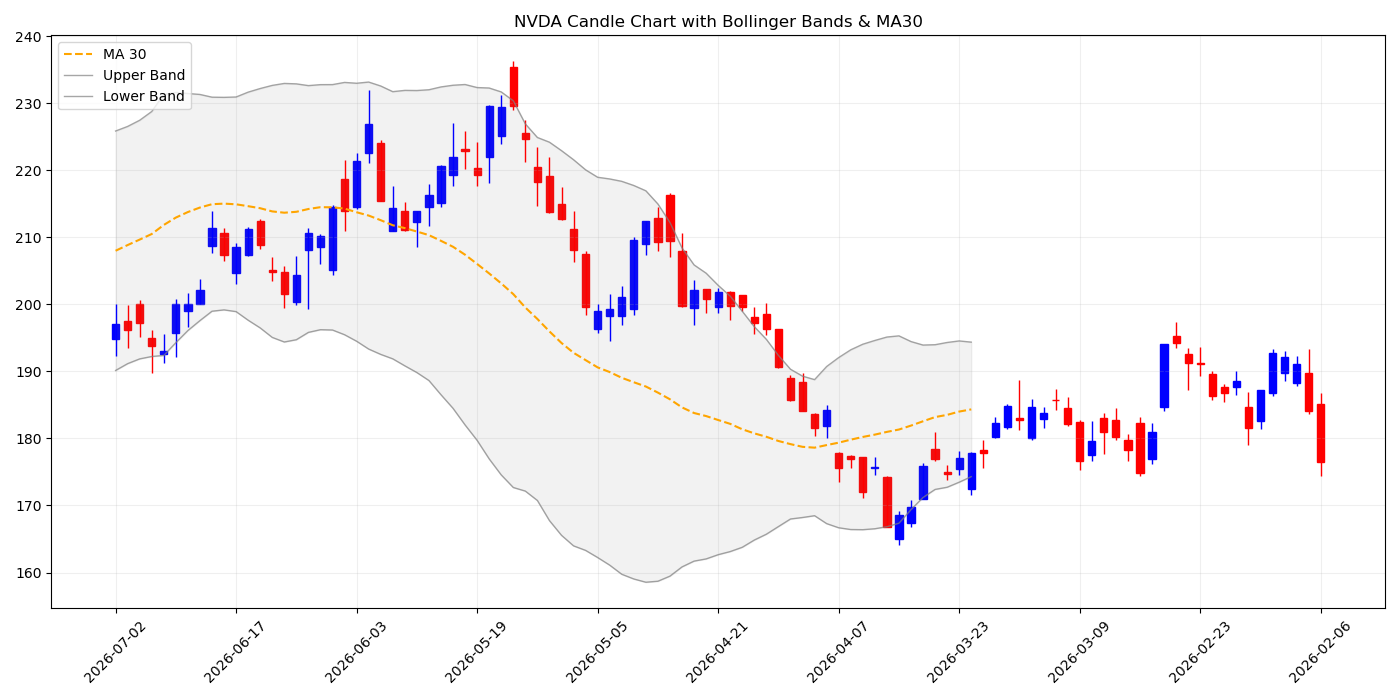
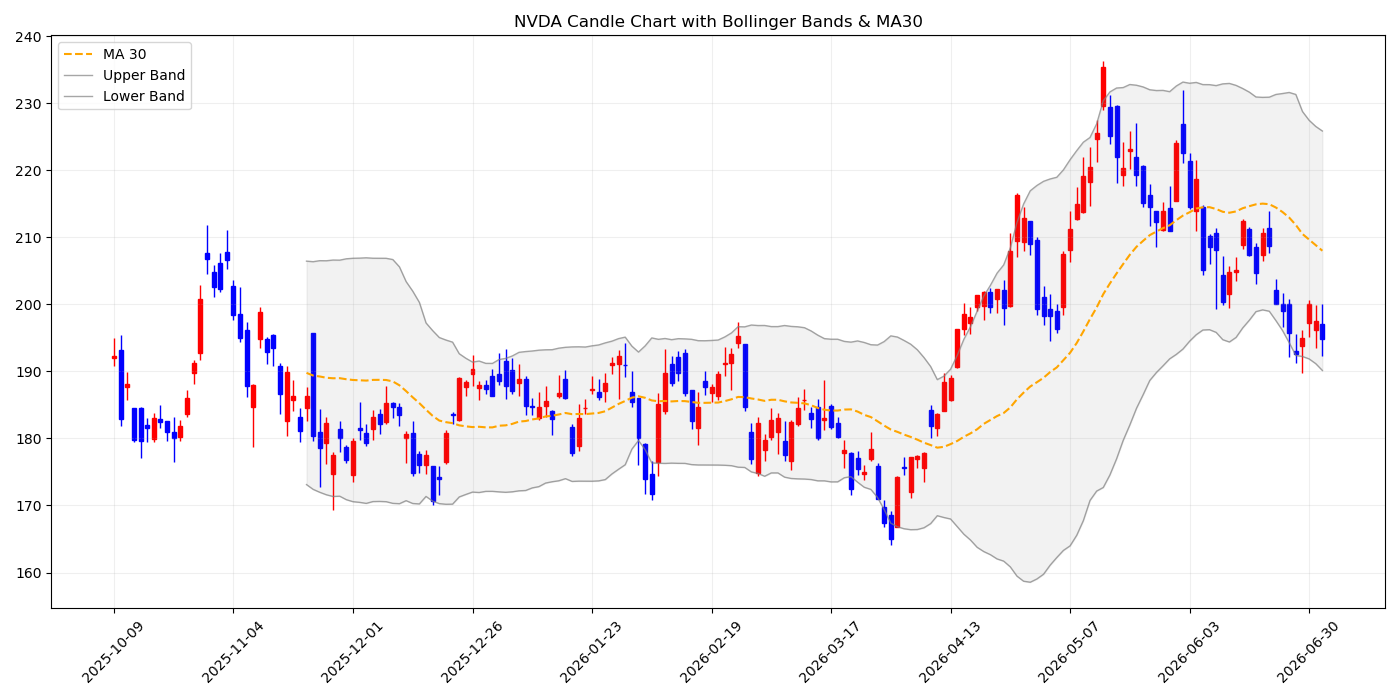
주가 분석용 python 완료됨(30일치 기준)

diff --git a/get_nvidia_price.py b/get_nvidia_price.py
@@ -37,7 +37,7 @@ def get_nvidia_data(month, Ticker) -> pd.DataFrame:
     # month = float(input('Enter the month what you want to get the Ticker data (ex: 5): '))
     end_date = datetime.now()
 
-    start_date = end_date - timedelta(days = 30*month)
+    start_date = end_date - timedelta(days = 30*(month+4))
     end_date = end_date.strftime("%Y-%m-%d")
     start_data = start_date.strftime("%Y-%m-%d")
     df = yf.download(yf.Ticker(Ticker).info['symbol'], start=start_date, end=end_date, interval='1d').sort_index(ascending=True)
@@ -56,13 +56,13 @@ def get_nvidia_data(month, Ticker) -> pd.DataFrame:
     # 하단 밴드 = 중심선 - (표준편차 * 2)
     df['Lower_Band'] = df['MA30'] - (df['STD30'] * 2)
     df = df.reset_index()
-    df = df.sort_values(by='Date', ascending=False)
+    # df = df.sort_values(by='Date', ascending=False)
     # MultiIndex 컬럼이 있다면 평탄화
     df.columns = [
         "_".join(col).strip() if isinstance(col, tuple) else col
         for col in df.columns
     ]
-    df.to_csv('nvidia_price.csv', index=False)  # Save to CSV
+    df.to_csv(f'{Ticker}_price.csv', index=False)  # Save to CSV
 
     return df
 
@@ -128,7 +128,7 @@ if __name__ == "__main__":
 
     # 4. 꺾은선 그래프(Line Plot) 그리기
     plt.figure(figsize=(10, 5))
-    plt.plot(df_center['time'], df_center['cell_value'], marker='o', color='b', linestyle='-', linewidth=2)
+    plt.plot(df_center['time'], df_center['cell_value'].astype(float), marker='o', color='b', linestyle='-', linewidth=2)
 
     # 그래프 스타일 설정
     # plt.title("A14XX (Office) MoM Percent Change (P)", fontsize=14, pad=15)

diff --git a/SKILL.md b/SKILL.md
@@ -1,0 +1,94 @@
+---
+name: analyze-nvda-stock
+description: Run the local NMPL stock analysis workflow for a requested ticker. Use when the user asks in Korean or English to analyze a stock ticker, especially phrases like "NVDA 주가 분석해줘", "AAPL 주가 분석해줘", "엔비디아 주가 분석", or "analyze AAPL stock"; extract the ticker, execute the NMPL folder's get_nvidia_price.py script, report generated outputs, summarize datacenter cell_value trends, and compare the latest close against 30-day Bollinger bands.
+---
+
+# Analyze Stock Ticker
+
+Run the existing local workflow instead of rewriting the analysis.
+
+## Workflow
+
+1. Use the NMPL workspace at `C:\Users\user\Dacon_base\내 PC (pc01)\Desktop\NMPL`.
+2. Extract the ticker from the user request:
+   - For requests like `AAPL 주가 분석해줘`, use `AAPL`.
+   - For requests like `analyze MSFT stock`, use `MSFT`.
+   - If no ticker is explicit, default to `NVDA`.
+   - Normalize the ticker to uppercase before using it.
+3. Execute `get_nvidia_price.py`.
+4. If the user did not specify a month range, provide `5` for the first input. Provide the extracted ticker for the second input.
+
+```text
+5
+{TICKER}
+```
+
+5. After execution, summarize the console output briefly. The script may still print an NVDA quote first because of `get_nvidia_quote()`; use the generated CSV and chart for the requested ticker analysis.
+6. Mention generated files that exist, especially:
+   - `nvidia_price.csv`
+   - `datacenter_ppi.csv`
+   - `datacenter_ppi.png`
+   - `{TICKER}_candle_chart.png`
+7. Read `datacenter_ppi.csv` and analyze the first 5 data rows. Treat this as the generated datacenter CSV if the user refers to `datacenter.csv`.
+8. For those first 5 rows, focus on the `time` and `cell_value` columns:
+   - Convert `cell_value` to numeric before comparing values.
+   - The CSV is usually saved with the latest month first. For a trend explanation, reorder those 5 rows by `time` ascending before describing month-to-month movement.
+   - Report whether `cell_value` is generally rising, falling, or mixed over those 5 months.
+   - Include the starting value, ending value, net change, and notable month-to-month increases or decreases.
+   - Keep the explanation concise and in Korean when the user asks in Korean.
+9. Read `nvidia_price.csv` and analyze the latest row by `Date_`.
+10. For that latest row, compare `Close_{TICKER}` with `Lower_Band_` and `Upper_Band_`:
+   - Convert `Date_` to datetime and choose the row with the most recent date.
+   - Convert `Close_{TICKER}`, `Lower_Band_`, and `Upper_Band_` to numeric.
+   - If `Close_{TICKER}` is missing, inspect the CSV headers and use the only `Close_*` column if it matches the requested ticker data.
+   - Calculate `lower_distance_ratio = abs(Close_{TICKER} - Lower_Band_) / Close_{TICKER} * 100`.
+   - Calculate `upper_distance_ratio = abs(Upper_Band_ - Close_{TICKER}) / Close_{TICKER} * 100`.
+   - Report both ratios as percentages.
+   - If the lower band ratio is smaller than or equal to the upper band ratio, say: "30일 기준 하한 밴드가 {TICKER} 주가와 가까워졌기에 매수 추천함."
+   - If the upper band ratio is smaller, say: "30일 기준 상한 밴드와 {TICKER} 주가가 가까워졌으므로 매도 추천함."
+   - Present this as a rule-based band signal from the CSV, not as comprehensive financial advice.
+
+## Command
+
+Prefer a PowerShell command equivalent to:
+
+```powershell
+"5`n{TICKER}`n" | python get_nvidia_price.py
+```
+
+If `python` is unavailable, try the environment's available Python runner. If dependencies or network access fail, report the exact blocker and the command attempted.
+
+## Datacenter CSV Trend Summary
+
+Use a concise process equivalent to:
+
+```powershell
+Import-Csv datacenter_ppi.csv |
+  Select-Object -First 5 |
+  Sort-Object time |
+  Select-Object time, cell_value
+```
+
+Then explain the `cell_value` trend in plain Korean. For example: "첫 5개월 데이터는 2026-01부터 2026-05까지 전반적으로 상승했고, 중간에 2026-02에서 2026-03으로 소폭 하락한 뒤 다시 증가했습니다."
+
+## Bollinger Band Signal
+
+Use a concise process equivalent to:
+
+```powershell
+$ticker = "{TICKER}"
+$closeCol = "Close_$ticker"
+Import-Csv nvidia_price.csv |
+  Where-Object { $_.$closeCol -and $_.Lower_Band_ -and $_.Upper_Band_ } |
+  Sort-Object {[datetime]$_.Date_} -Descending |
+  Select-Object -First 1 Date_, $closeCol, Lower_Band_, Upper_Band_
+```
+
+Calculate the distance ratios from the latest close:
+
+```text
+lower_distance_ratio = abs(Close_{TICKER} - Lower_Band_) / Close_{TICKER} * 100
+upper_distance_ratio = abs(Upper_Band_ - Close_{TICKER}) / Close_{TICKER} * 100
+```
+
+Then state which band is closer and include the matching Korean recommendation sentence from the workflow.
